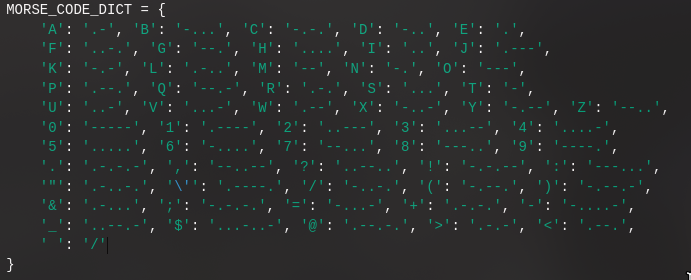
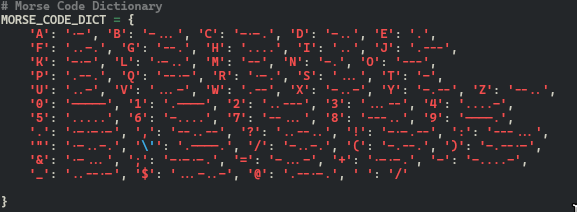
Fixed < and > being wrong, now they're removed. Updated README and moved audio files to correct folder. Fixed picture aswell

diff --git a/morse.py b/morse.py
@@ -20,8 +20,8 @@ MORSE_CODE_DICT = {
     '.': '.-.-.-', ',': '--..--', '?': '..--..', '!': '-.-.--', ':': '---...',
     '"': '.-..-.', '\'': '.----.', '/': '-..-.', '(': '-.--.', ')': '-.--.-',
     '&': '.-...', ';': '-.-.-.', '=': '-...-', '+': '.-.-.', '-': '-....-',
-    '_': '..--.-', '$': '...-..-', '@': '.--.-.', '>': '.-.-', '<': '.--.',
-    ' ': '/' 
+    '_': '..--.-', '$': '...-..-', '@': '.--.-.', ' ': '/'
+
 }
 
 REVERSE_MORSE_CODE_DICT = {v: k for k, v in MORSE_CODE_DICT.items()}

diff --git a/README.md b/README.md
@@ -29,7 +29,7 @@ Or run the compiled binary from the releases.
   * **č** → `c`
   * **đ** → `dj`
 * Supported punctuation characters (converted to Morse):
-  `! ? > < ( ) . , : ; = + - _ " $ @ /`
+  `! ? ( ) . , : ; = + - _ " $ @ /`
 * Characters not in the dictionary are skipped (no output).
 * Output Morse characters are separated by spaces.
 * Newlines in input text create new lines of Morse output.
